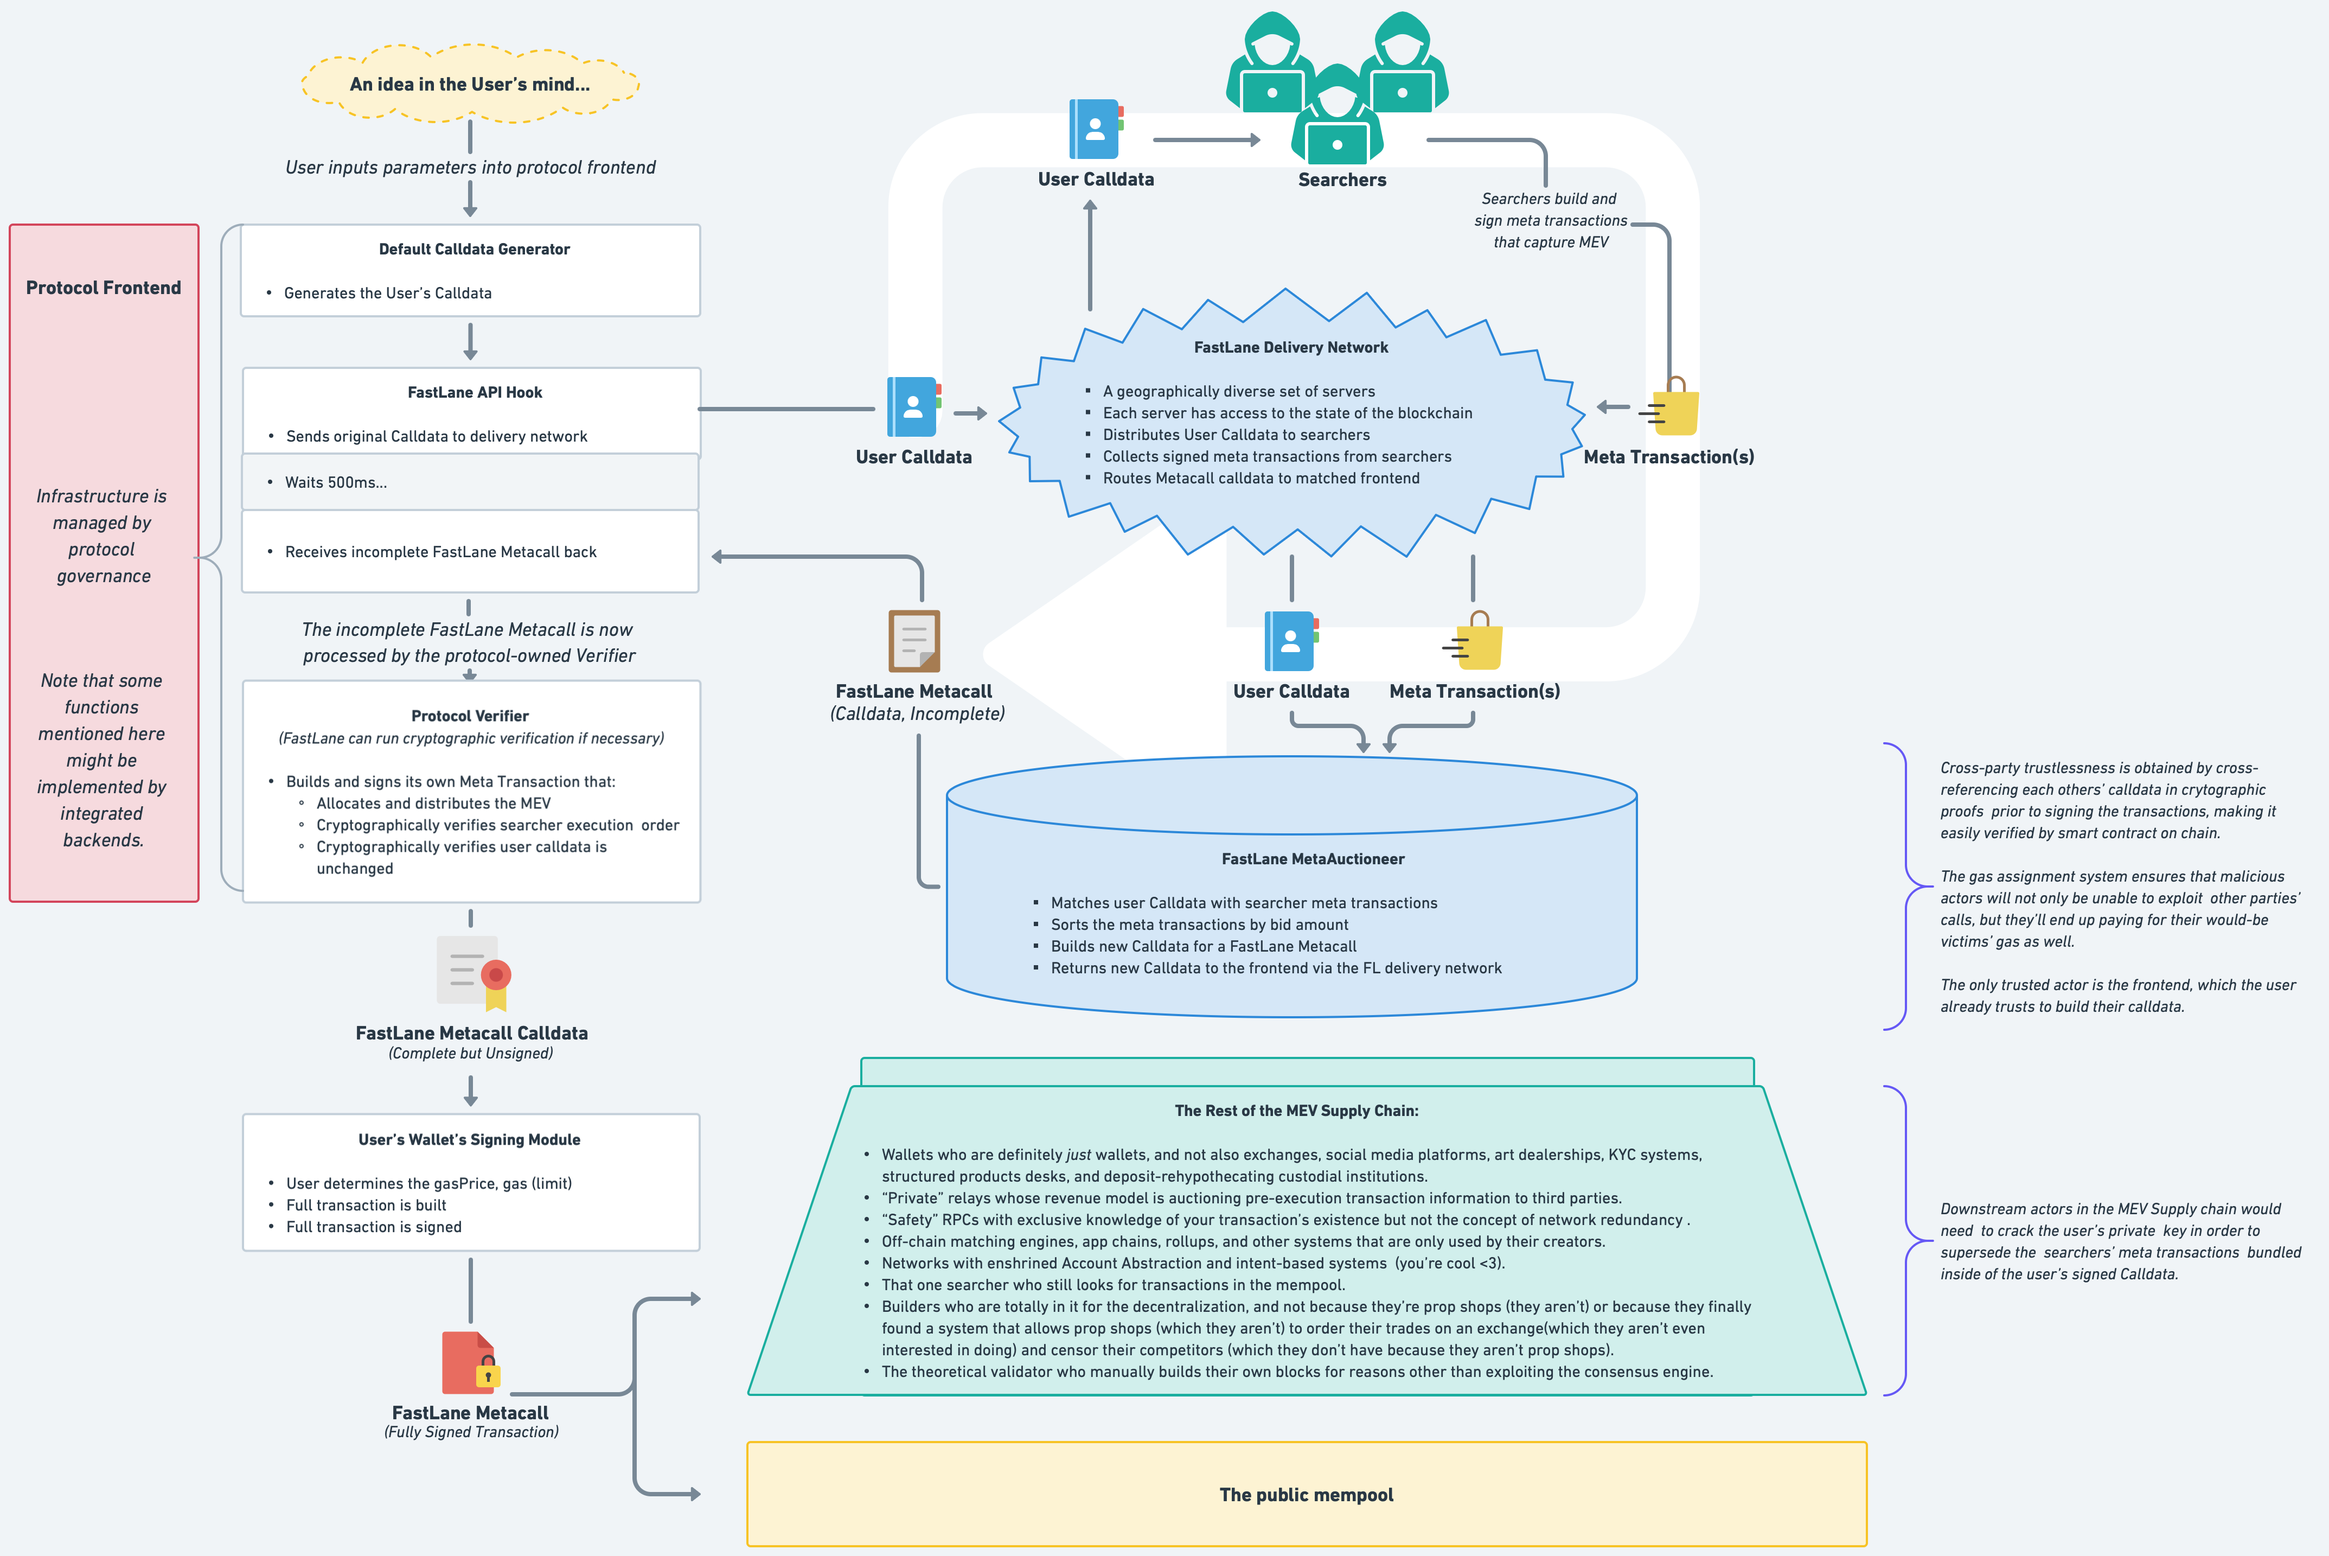
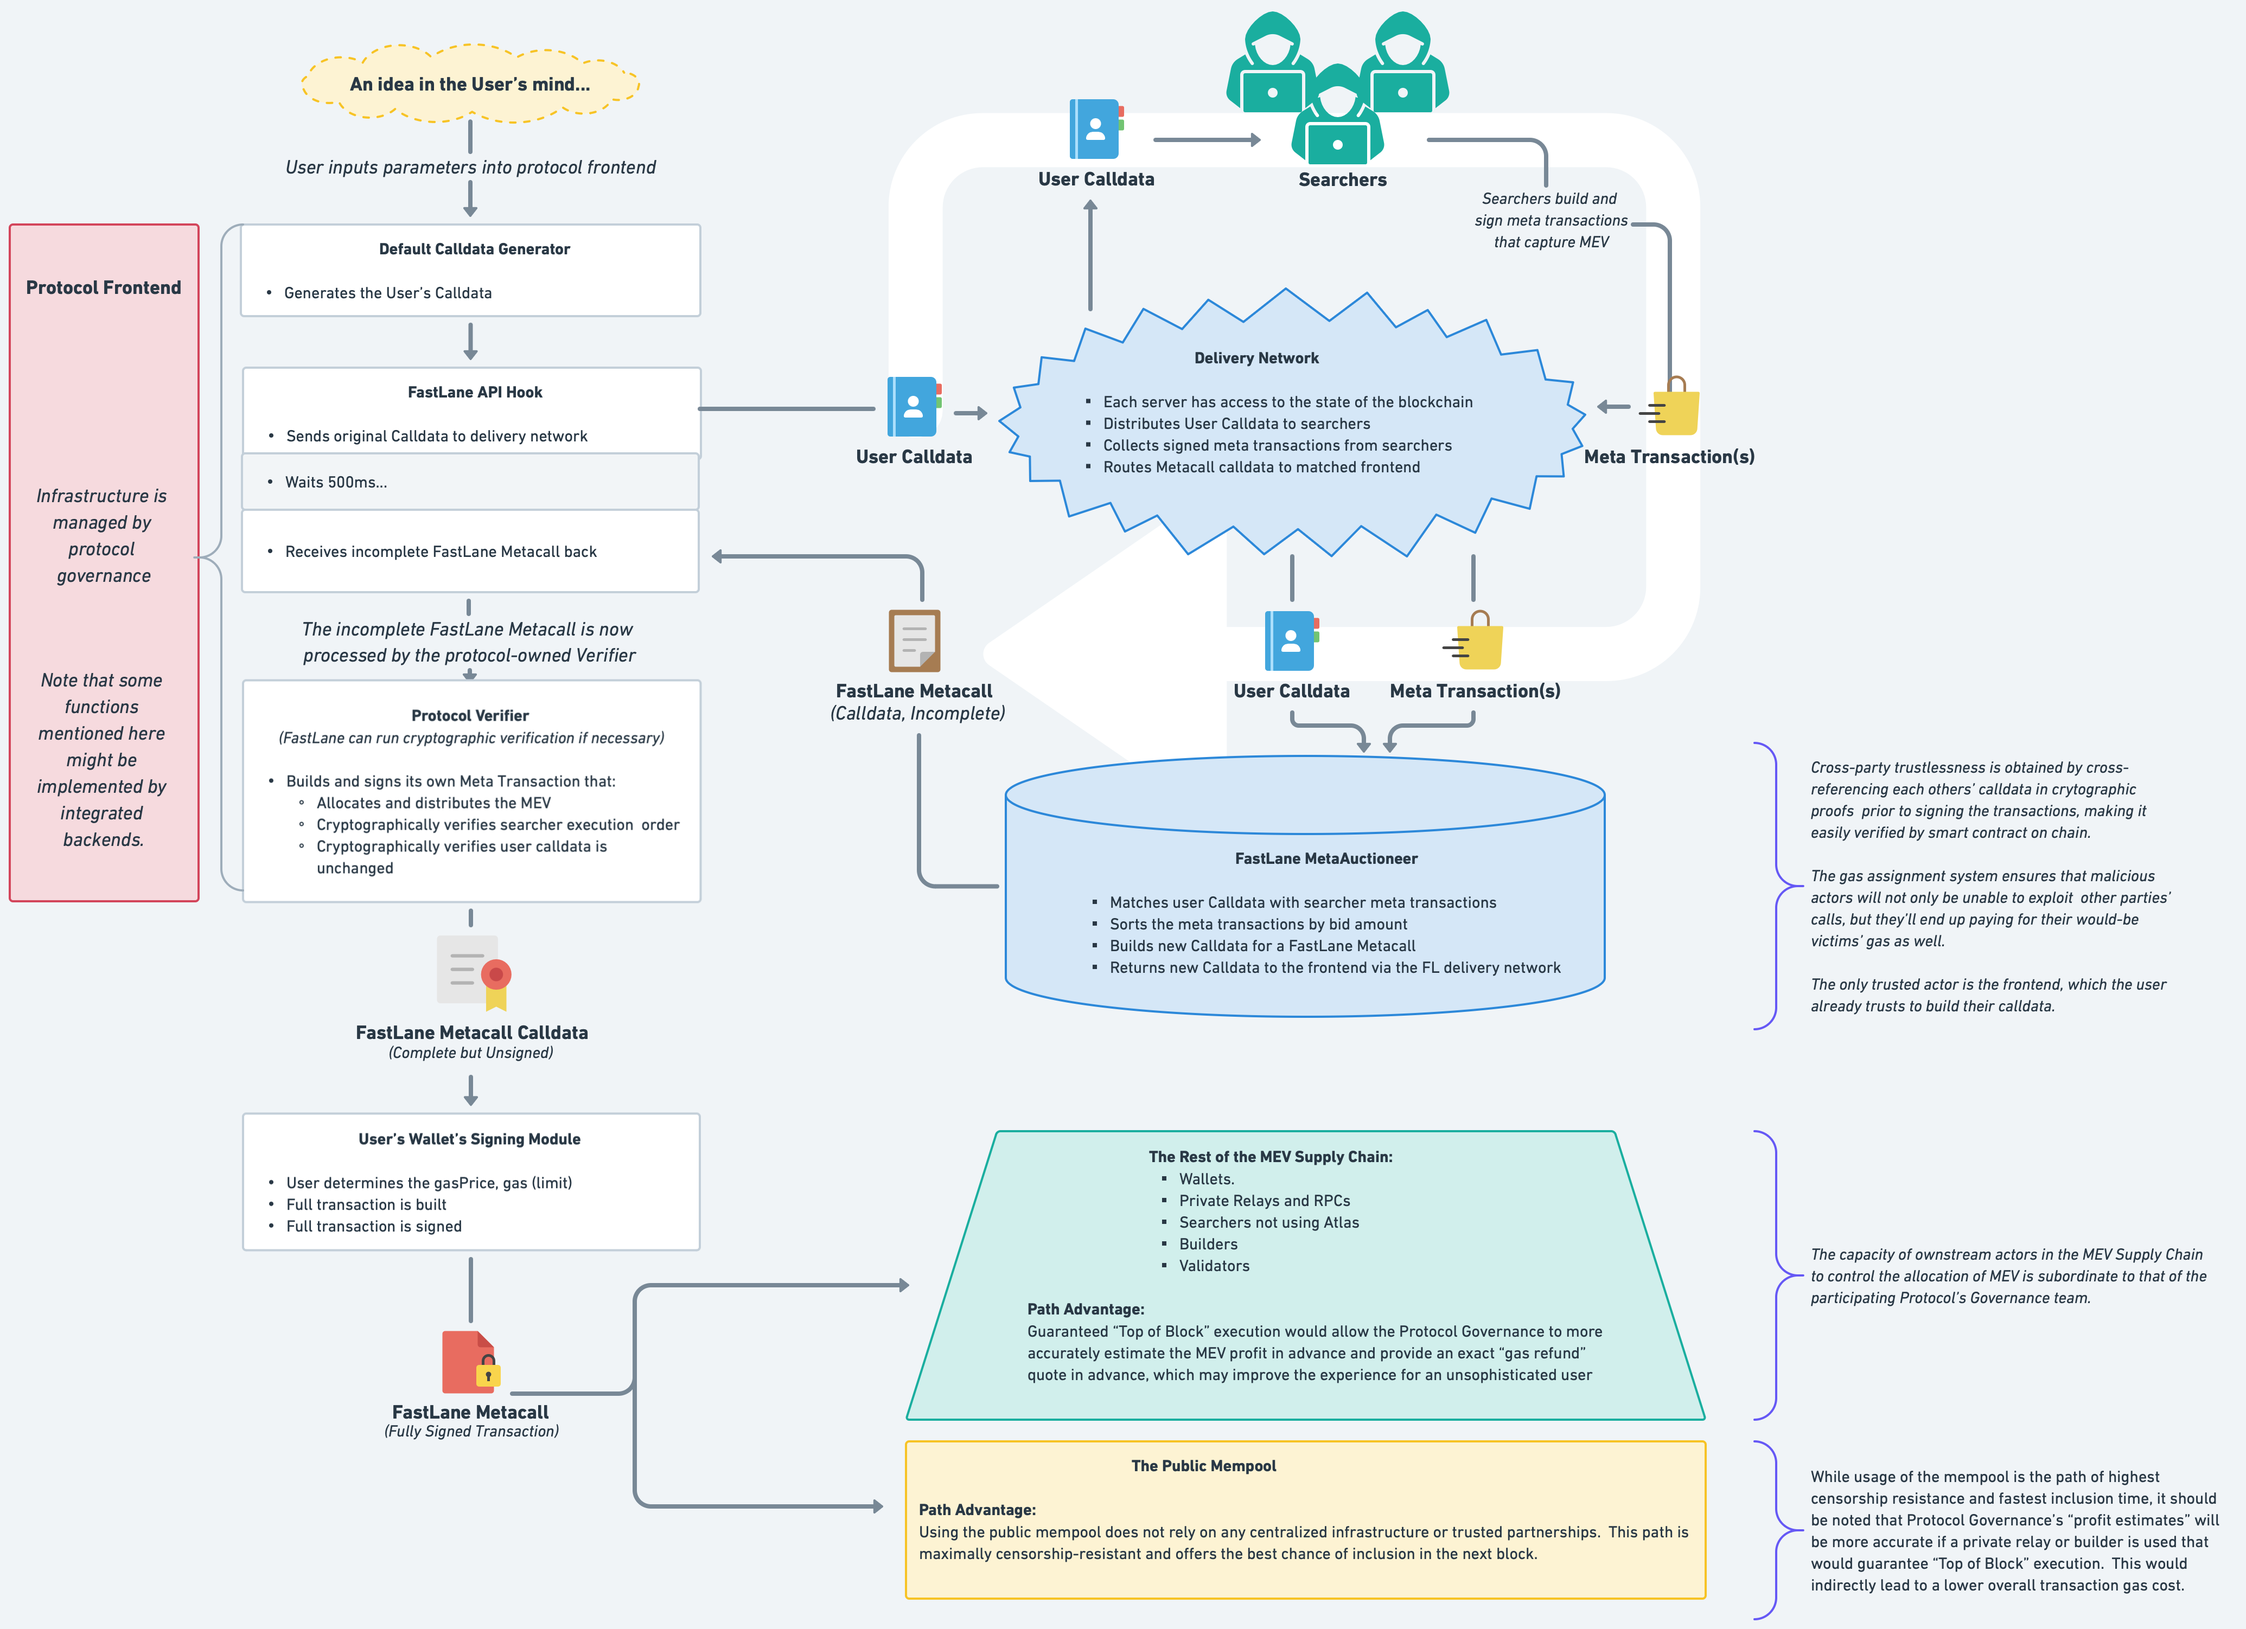
updated diagram, added it to readme

Changed region(s): [[0.2804, 0.0, 0.9971, 1.0], [0.0, 0.031, 0.4362, 0.931], [0.8101, 0.4655, 0.9971, 0.6517]]

diff --git a/README.md b/README.md
@@ -5,6 +5,12 @@
 
 Atlas is a system that combines a highly advanced smart contract with a frontend API to allow DeFi protocols to control how and where to allocate the MEV generated by their users' transactions. One of the key roles of a DeFi frontend is to build a transaction's "calldata" that defines what the User's transaction will do. Atlas works by injecting the calldata for Searchers' meta transactions at the end of the User's calldata; this occurs *before* the User signs the transaction. By including the User's calldata and the Searchers' calldata inside of a singular transaction that's governed by the logic of the Atlas smart contract, Protocol Governance is guaranteed that downstream actors such as wallets, RPCs, relays, builders, and validators will not be able to redirect the MEV to suit their own purposes. 
 
+### Network Overview
+![Overview](./AtlasOverview.png)
+
+### Atlas Metacall Structure
+![AtlasTransaction](./AtlasTransaction.png)
+
 ### Advantages:
 
 - No dependencies on centralized infrastructure or need for any trusted wallet, RPC, relay, builder, or validator.
@@ -37,4 +43,4 @@ Atlas is a system that combines a highly advanced smart contract with a frontend
 
 Note that there is significant complexity in the lock system.  This was designed to handle ALL cases, rather than having to deploy multiple contracts to handle SOME cases, so as to avoid the fragmentation (capital inefficiency and upkeep effort) of the searcher's escrowed gas values.  Other factory contracts may be launched with less complexity - such as one that has no delegatecall and therefore no need to create a new contract each time - but the Escrow contract must be designed to handle the *most* complex of those designs or searchers' gas values will be fragmented.
 
-Note that the backend will probably need to use a reputation system for searcher bids that aren't in the top three in order to not take up too much space in the block.  The further down the the searcherCalls[], the higher the reputation requirement for inclusion by the backend. This isnt necessarily required - it's not an economic issue. It's more-so about just being a good member of the ecosystem and not wasting too much precious blockspace. With probabalistic searcher txs that have low success rate but high return-to-cost rate. 
+Note that the backend will probably need to use a reputation system for searcher bids that aren't in the top three in order to not take up too much space in the block.  The further down the the searcherCalls[], the higher the reputation requirement for inclusion by the backend. This isnt necessarily required - it's not an economic issue - it's just that it's important to be a good member of the ecosystem and not waste too much precious blockspace by filling it with probabalistic searcher txs that have low success rate but high return-to-cost rate. 
